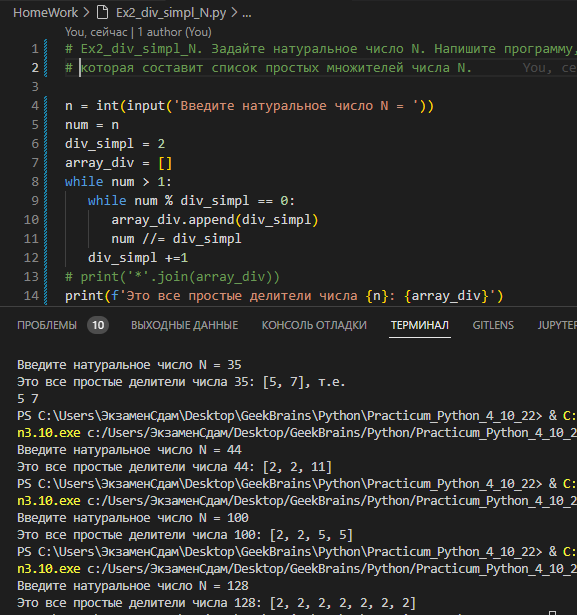
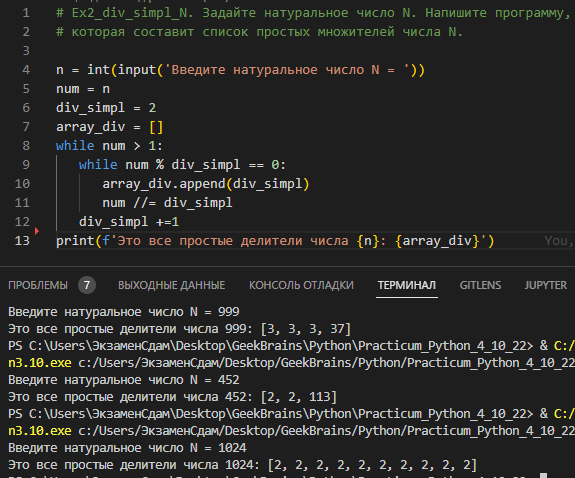
update Ex2

diff --git a/HomeWork/Ex1_calculate_e.py b/HomeWork/Ex1_calculate_e.py
@@ -2,7 +2,7 @@
 # Пример:  при $d = 0.001, π = 3.141.$    
 #   $10^{-1} ≤ d ≤10^{-10}$
 import math
-epsylon = input('Введите точность вычислений в пределах от одной десятой до одной десятимиллиардной: \n e = ')
+epsylon = input('Введите точность вычислений в пределах от 0.1 до 0.0000000001: \n e = ')
 frac_part = epsylon.find('1') - epsylon.find('.')
-# math.radians(90), math.e
+# math.radians(90), math.e, math.pi
 print(f'Значение числа {math.e} с точностью до {epsylon} равна {round(math.e, frac_part)}')

diff --git a/HomeWork/Ex2_div_simpl_N.py b/HomeWork/Ex2_div_simpl_N.py
@@ -10,5 +10,4 @@ while num > 1:
       array_div.append(div_simpl)
       num //= div_simpl
    div_simpl +=1
-# print('*'.join(array_div))
 print(f'Это все простые делители числа {n}: {array_div}')
